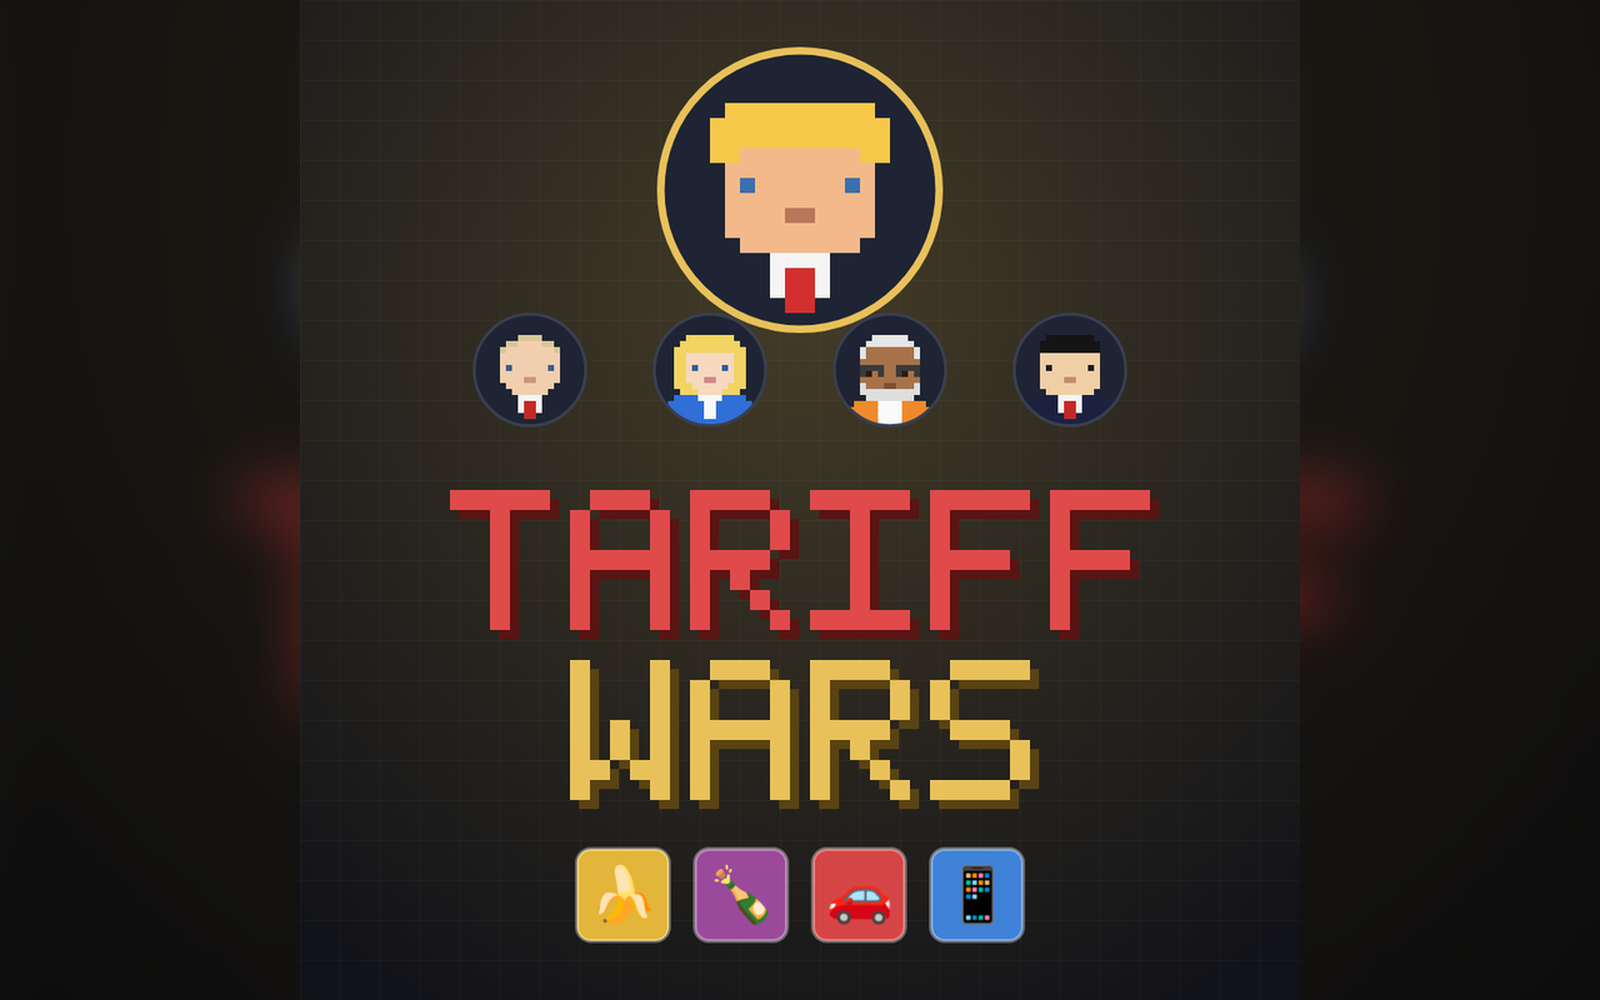
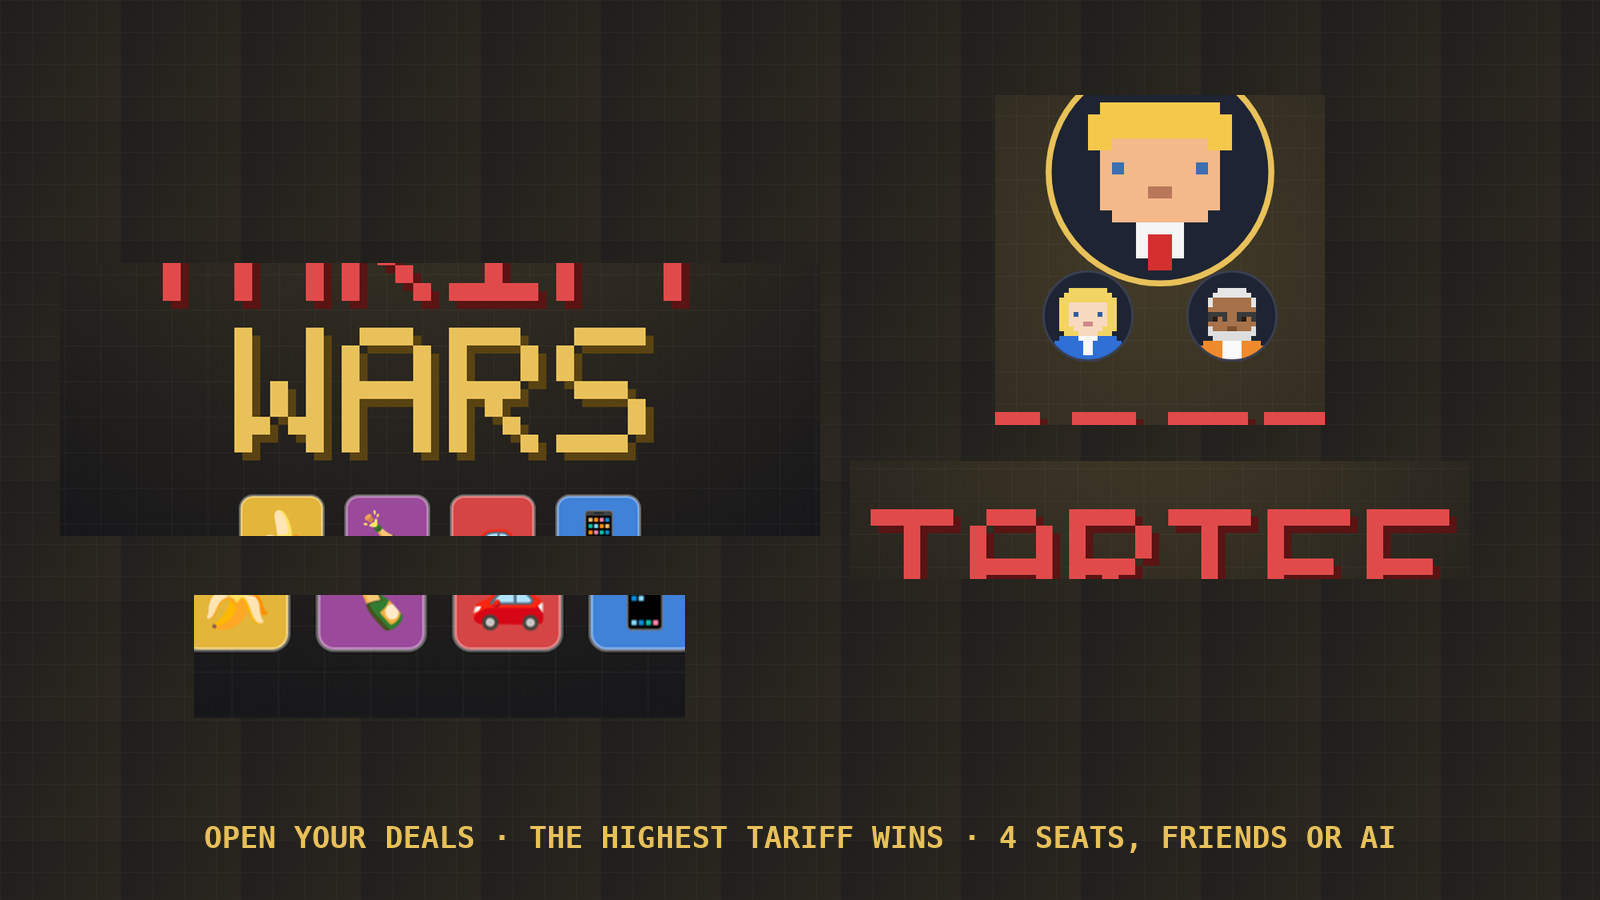
Home: 16:9 covers designed for the tiles

diff --git a/public/arcade.css b/public/arcade.css
@@ -69,3 +69,9 @@ body.home .wrap{max-width:1480px}
 body.home .games{grid-template-columns:1fr 1fr;justify-content:stretch;gap:24px}
 body.home .game .cover img{aspect-ratio:16/10;object-fit:cover;height:auto;max-height:calc(100vh - 470px)}
 @media(max-width:760px){body.home .games{grid-template-columns:1fr}body.home .game .cover img{max-height:none}}
+/* covers designed at 16:9 — shown whole, never cropped */
+body.home .wrap{padding-top:10px}
+body.home .hero{margin-bottom:12px}
+body.home .game .cover img{aspect-ratio:16/9;object-fit:cover;height:auto;max-height:none}
+body.home .game .t.top{padding:10px 16px 10px}
+body.home .game .t.top span{min-height:3em;display:-webkit-box;-webkit-line-clamp:2;-webkit-box-orient:vertical;overflow:hidden}
